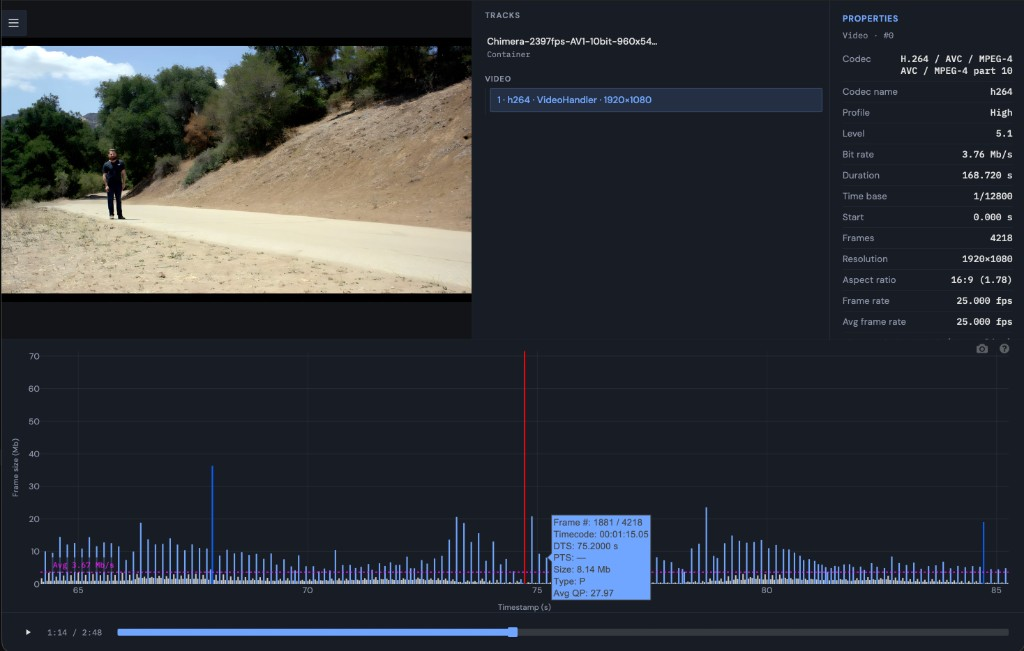
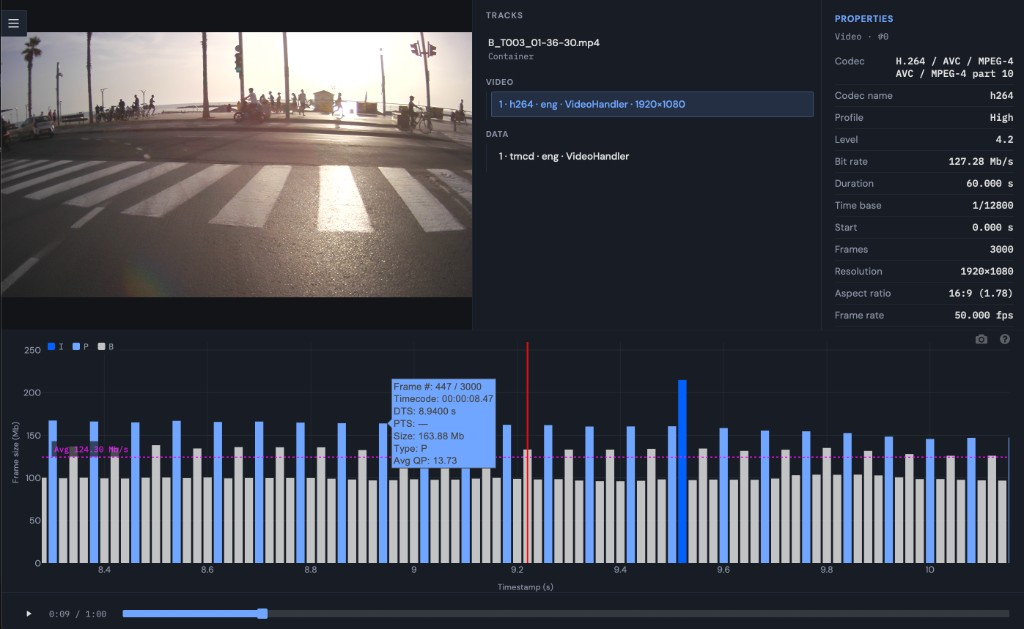
Update UI: 0-based frame index, I/P/B legend, new README screenshot.

diff --git a/static/css/style.css b/static/css/style.css
@@ -580,6 +580,15 @@ body.is-loaded #dropArea {
   overflow: hidden;
 }
 
+#frameChartWrap {
+  position: relative;
+  flex: 1 1 auto;
+  min-height: 140px;
+  display: flex;
+  flex-direction: column;
+  overflow: hidden;
+}
+
 #frameChart {
   flex: 1 1 auto;
   width: 100% !important;
@@ -587,6 +596,50 @@ body.is-loaded #dropArea {
   background: var(--bg);
   cursor: pointer;
   overflow: hidden;
+}
+
+.frame-type-legend {
+  position: absolute;
+  top: 10px;
+  left: 56px;
+  z-index: 5;
+  display: flex;
+  align-items: center;
+  gap: 12px;
+  padding: 4px 8px;
+  border-radius: 4px;
+  background: rgba(24, 28, 36, 0.78);
+  color: var(--text-muted);
+  font-family: var(--mono);
+  font-size: 0.72rem;
+  letter-spacing: 0.02em;
+  pointer-events: none;
+  user-select: none;
+}
+
+.frame-type-item {
+  display: inline-flex;
+  align-items: center;
+  gap: 5px;
+}
+
+.frame-type-swatch {
+  width: 10px;
+  height: 10px;
+  border-radius: 2px;
+  flex-shrink: 0;
+}
+
+.frame-type-swatch.i {
+  background: #0161ff;
+}
+
+.frame-type-swatch.p {
+  background: #70a6ff;
+}
+
+.frame-type-swatch.b {
+  background: rgba(224, 224, 224, 0.85);
 }
 
 #plotControls {

diff --git a/templates/index.html b/templates/index.html
@@ -64,7 +64,14 @@
   </section>
 
   <section id="frameGraphSection">
-    <div id="frameChart"></div>
+    <div id="frameChartWrap">
+      <div id="frameTypeLegend" class="frame-type-legend" aria-label="Frame type color index">
+        <span class="frame-type-item"><span class="frame-type-swatch i" aria-hidden="true"></span>I</span>
+        <span class="frame-type-item"><span class="frame-type-swatch p" aria-hidden="true"></span>P</span>
+        <span class="frame-type-item"><span class="frame-type-swatch b" aria-hidden="true"></span>B</span>
+      </div>
+      <div id="frameChart"></div>
+    </div>
     <div id="plotControls">
       <div id="playerControls">
         <button type="button" id="playPauseBtn" title="Play/Pause" aria-label="Play/Pause">

diff --git a/static/js/plotly.js b/static/js/plotly.js
@@ -50,7 +50,7 @@ function buildFrameCustomdata(frames, fps) {
             ? pts
             : parseFloat(f.best_effort_timestamp_time);
         return [
-            i + 1,
+            i,
             total,
             formatFrameTimecode(tcBase, rate),
             formatSecondsLabel(f.pkt_dts_time),
